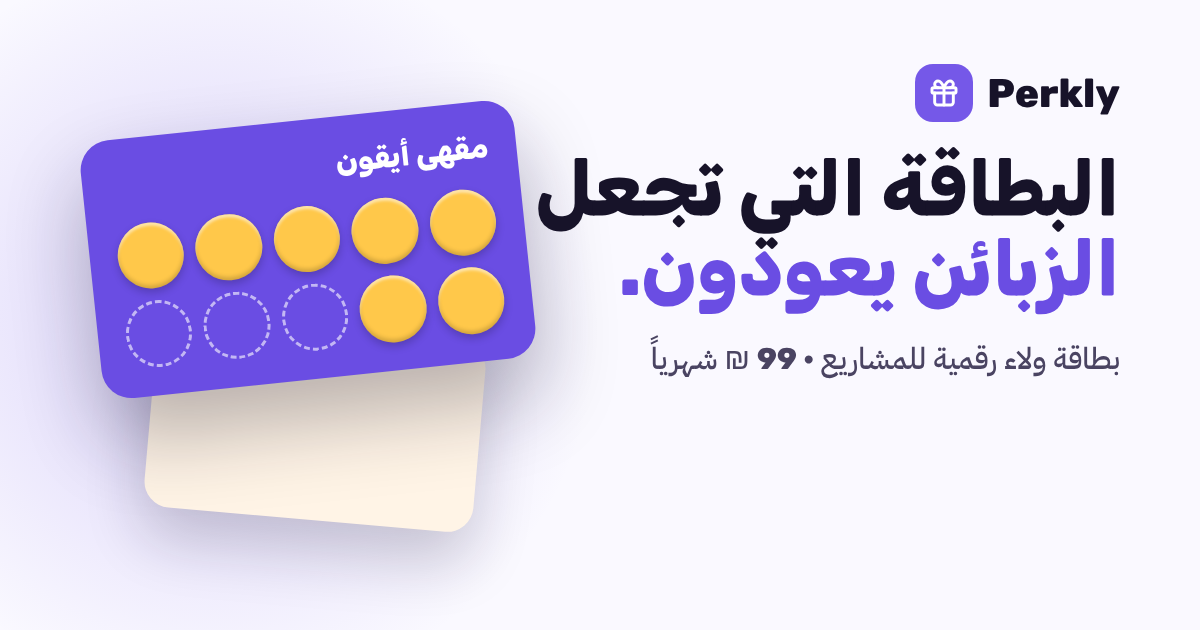
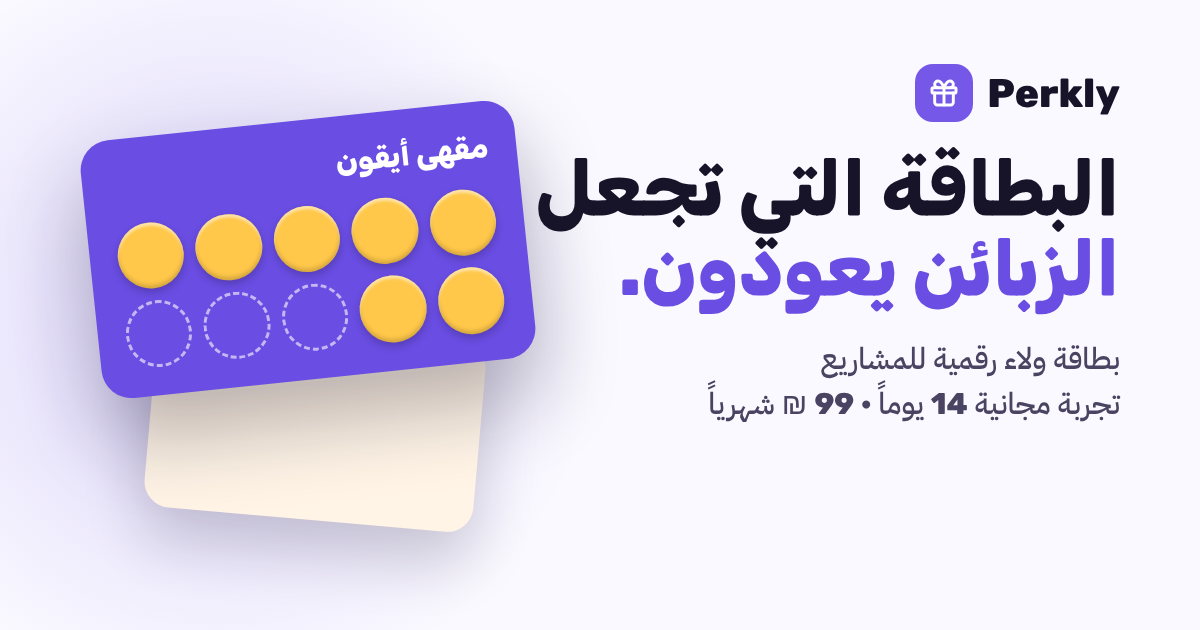
14-day free trial everywhere
- TRIAL_DAYS 3 -> 14: new subscriptions get a 14-day trial at the Polar
  checkout (first charge after 14 days).
- All texts in Hebrew, Arabic and English: landing (hero, pricing, FAQ,
  meta description), /start, /contact, billing page, error messages,
  admin hint, terms, README; share images re-rendered.
- Test: TRIAL_DAYS is 14 and no text still says 3 days.

Claude-Session: https://claude.ai/code/session_01M9Lt2PLQbQ6YVg2LydKd8k

Changed region(s): [[0.5858, 0.6032, 0.925, 0.6635], [0.5242, 0.5429, 0.6783, 0.6032]]

diff --git a/app/landing/content.ts b/app/landing/content.ts
@@ -3,7 +3,7 @@
 // - Only claims the product really supports today (see README "מה עובד בגרסה הזו").
 // - One stamp rule everywhere: the business sets how many stamps fill a card; a full card
 //   means the reward is ready; redeeming the reward is not itself counted as a stamp.
-// - Prices: 99 ILS a month, no setup fee. Counter kit: optional, 99 ILS one-time, also without a subscription.
+// - Prices: 99 ILS a month, no setup fee, 14-day free trial (TRIAL_DAYS in lib/server/billing.ts). Counter kit: optional, 99 ILS one-time, also without a subscription.
 // - No testimonials, customer counts or results until real, approved ones exist.
 
 export type Lang = "he" | "ar" | "en";
@@ -18,7 +18,7 @@ const he = {
   dir: "rtl" as "rtl" | "ltr",
   meta: {
     title: "Perkly — כרטיס נאמנות דיגיטלי לעסקים",
-    description: "כרטיס חותמות דיגיטלי בעיצוב העסק שלכם. הצטרפות ב־QR, ניהול חותמות והטבות ולוח בקרה לבעלי עסקים.",
+    description: "כרטיס חותמות דיגיטלי בעיצוב העסק שלכם. הצטרפות ב־QR, ניהול חותמות והטבות ולוח בקרה לבעלי עסקים. 14 ימי ניסיון חינם.",
     ogAlt: "Perkly: כרטיס נאמנות דיגיטלי בטלפון של הלקוח",
   },
   nav: { skip: "דלגו לתוכן", how: "איך זה עובד", examples: "דוגמאות", pricing: "מחיר", faq: "שאלות", login: "כניסה", cta: "התחילו עכשיו", menu: "תפריט", close: "סגירת התפריט", lang: "שפה", home: "Perkly, לדף הבית" },
@@ -29,7 +29,7 @@ const he = {
     cta: "התחילו עכשיו",
     demo: "נסו הדגמה",
     price: "99 ₪ לחודש",
-    priceNote: "בלי דמי הקמה",
+    priceNote: "14 ימי ניסיון חינם · בלי דמי הקמה",
     points: ["הלקוח לא מוריד אפליקציה", "מספיק טלפון או טאבלט בקופה", "עברית ואנגלית"],
     sceneLabel: "המחשה: כרטיס נאמנות של בית קפה בטלפון, ומאחוריו כרטיסים של מספרה ושל גלידרייה",
     myCard: "הכרטיס שלי",
@@ -137,7 +137,7 @@ const he = {
       name: "מנוי Perkly",
       price: "99 ₪",
       per: "לחודש",
-      note: "3 ימי ניסיון חינם · בלי דמי הקמה",
+      note: "14 ימי ניסיון חינם · בלי דמי הקמה",
       features: ["לקוחות ללא הגבלה", "עיצוב מלא: לוגו, תמונת רקע וחותמת משלכם", "באנר בעיצוב שלכם ב־Google Wallet", "עמדת עובד והזמנת עובדים", "לוח בקרה, היסטוריה והתראות", "עברית ואנגלית"],
       cta: "התחילו עכשיו",
     },
@@ -165,9 +165,9 @@ const he = {
       { q: "צריך לקנות ציוד?", a: "לא. עמדת העובד עובדת בדפדפן של טלפון או טאבלט עם מצלמה. את ה־QR אפשר להדפיס בעצמכם או להזמין ערכת קופה." },
       { q: "איך מונעים חותמות לא מוצדקות?", a: "לכל עובד כניסה אישית, וכל פעולה נרשמת עם שמו. המערכת מתריעה על פעילות חריגה, ובעל העסק יכול לבטל גישה של עובד מיד." },
       { q: "מה קורה כשהכרטיס מתמלא?", a: "ההטבה מוכנה. אתם בוחרים אם לממש אותה מיד, או לשמור אותה ולתת ללקוח להמשיך לצבור בכרטיס חדש. אפשר גם לקבוע תוקף להטבה." },
-      { q: "כמה זה עולה?", a: "99 ₪ לחודש, בלי דמי הקמה, עם 3 ימי ניסיון חינם. אפשר גם להתחיל בלי מנוי: עד 10 לקוחות, עם העיצובים, הצבעים והאייקונים המוכנים. לוגו, תמונת רקע וחותמת מתמונה משלכם נפתחים במנוי. ערכת קופה היא תוספת לבחירה ב־99 ₪ חד־פעמי." },
+      { q: "כמה זה עולה?", a: "99 ₪ לחודש, בלי דמי הקמה, עם 14 ימי ניסיון חינם. אפשר גם להתחיל בלי מנוי: עד 10 לקוחות, עם העיצובים, הצבעים והאייקונים המוכנים. לוגו, תמונת רקע וחותמת מתמונה משלכם נפתחים במנוי. ערכת קופה היא תוספת לבחירה ב־99 ₪ חד־פעמי." },
       { q: "יש חיבור ל־Apple Wallet ול־Google Wallet?", a: "Google Wallet כן: לקוחות עם אנדרואיד מוסיפים את הכרטיס לארנק, והוא מתעדכן לבד בכל חותמת. Apple Wallet בפיתוח. באייפון הכרטיס נפתח מהקישור האישי או מקיצור במסך הבית." },
-      { q: "איך מתחילים?", a: "פותחים חשבון, מעצבים את הכרטיס ומזינים פרטי אשראי. מקבלים QR להדפסה ומתחילים מיד. 3 הימים הראשונים חינם, ואז 99 ₪ לחודש. אפשר לבטל בכל עת." },
+      { q: "איך מתחילים?", a: "פותחים חשבון, מעצבים את הכרטיס ומזינים פרטי אשראי. מקבלים QR להדפסה ומתחילים מיד. 14 הימים הראשונים חינם, ואז 99 ₪ לחודש. אפשר לבטל בכל עת." },
     ],
   },
   final: {
@@ -196,7 +196,7 @@ const ar: Copy = {
   dir: "rtl",
   meta: {
     title: "Perkly — بطاقة ولاء رقمية للمشاريع",
-    description: "بطاقة أختام رقمية بتصميم مشروعك. انضمام عبر QR، إدارة الأختام والمكافآت، ولوحة تحكم لأصحاب المشاريع.",
+    description: "بطاقة أختام رقمية بتصميم مشروعك. انضمام عبر QR، إدارة الأختام والمكافآت، ولوحة تحكم لأصحاب المشاريع. تجربة مجانية لمدة 14 يوماً.",
     ogAlt: "Perkly: بطاقة ولاء رقمية في هاتف الزبون",
   },
   nav: { skip: "انتقل إلى المحتوى", how: "كيف يعمل", examples: "أمثلة", pricing: "السعر", faq: "أسئلة", login: "دخول", cta: "ابدأوا الآن", menu: "القائمة", close: "إغلاق القائمة", lang: "اللغة", home: "Perkly، الصفحة الرئيسية" },
@@ -207,7 +207,7 @@ const ar: Copy = {
     cta: "ابدأوا الآن",
     demo: "جرّبوا العرض",
     price: "99 ₪ شهرياً",
-    priceNote: "بدون رسوم تأسيس",
+    priceNote: "تجربة مجانية لمدة 14 يوماً · بدون رسوم تأسيس",
     points: ["الزبون لا يحتاج إلى تطبيق", "يكفي هاتف أو جهاز لوحي عند الصندوق", "العبرية والعربية والإنجليزية"],
     sceneLabel: "توضيح: بطاقة ولاء لمقهى في الهاتف، وخلفها بطاقتان لصالون حلاقة ولمحل بوظة",
     myCard: "بطاقتي",
@@ -315,7 +315,7 @@ const ar: Copy = {
       name: "اشتراك Perkly",
       price: "99 ₪",
       per: "شهرياً",
-      note: "3 أيام تجربة مجانية · بدون رسوم تأسيس",
+      note: "تجربة مجانية لمدة 14 يوماً · بدون رسوم تأسيس",
       features: ["زبائن بلا حدود", "تصميم كامل: الشعار وصورة خلفية وختم خاص بكم", "بانر بتصميمكم في Google Wallet", "واجهة موظف ودعوة موظفين", "لوحة تحكم، سجل وتنبيهات", "العبرية والعربية والإنجليزية"],
       cta: "ابدأوا الآن",
     },
@@ -343,7 +343,7 @@ const ar: Copy = {
       { q: "هل يجب شراء معدات؟", a: "لا. واجهة الموظف تعمل في متصفح هاتف أو جهاز لوحي فيه كاميرا. يمكن طباعة رمز QR بأنفسكم أو طلب طقم الصندوق." },
       { q: "كيف نمنع أختاماً غير مبررة؟", a: "لكل موظف دخول شخصي، وكل عملية تُسجّل باسمه. النظام ينبّه عند نشاط غير اعتيادي، وصاحب المشروع يستطيع إلغاء صلاحية موظف فوراً." },
       { q: "ماذا يحدث عندما تمتلئ البطاقة؟", a: "تكون المكافأة جاهزة. تختارون استبدالها فوراً، أو حفظها والسماح للزبون بالاستمرار في الجمع على بطاقة جديدة. يمكن أيضاً تحديد صلاحية للمكافأة." },
-      { q: "كم يكلّف؟", a: "99 ₪ شهرياً، بدون رسوم تأسيس، مع 3 أيام تجربة مجانية. يمكن أيضاً البدء بدون اشتراك: حتى 10 زبائن، مع التصاميم والألوان والأيقونات الجاهزة. الشعار وصورة الخلفية والختم من صورتكم تُفتح بالاشتراك. طقم الصندوق إضافة اختيارية بسعر 99 ₪ لمرة واحدة." },
+      { q: "كم يكلّف؟", a: "99 ₪ شهرياً، بدون رسوم تأسيس، مع تجربة مجانية لمدة 14 يوماً. يمكن أيضاً البدء بدون اشتراك: حتى 10 زبائن، مع التصاميم والألوان والأيقونات الجاهزة. الشعار وصورة الخلفية والختم من صورتكم تُفتح بالاشتراك. طقم الصندوق إضافة اختيارية بسعر 99 ₪ لمرة واحدة." },
       { q: "هل يوجد ربط مع Apple Wallet وGoogle Wallet؟", a: "Google Wallet نعم: زبائن أندرويد يضيفون البطاقة إلى المحفظة وتتحدث تلقائياً مع كل ختم. Apple Wallet قيد التطوير، وفي الآيفون تُفتح البطاقة من الرابط الشخصي أو من اختصار في الشاشة الرئيسية." },
       { q: "كيف نبدأ؟", a: "تفتحون حساباً، تصممون البطاقة وتدخلون تفاصيل البطاقة الائتمانية. تحصلون على رمز QR للطباعة وتبدؤون فوراً. الأيام الثلاثة الأولى مجانية، ثم 99 ₪ شهرياً. يمكن الإلغاء في أي وقت." },
     ],
@@ -372,7 +372,7 @@ const en: Copy = {
   dir: "ltr",
   meta: {
     title: "Perkly — Digital loyalty cards for small businesses",
-    description: "A digital stamp card in your business's own design. QR sign-up, stamps and rewards, and a dashboard for owners.",
+    description: "A digital stamp card in your business's own design. QR sign-up, stamps and rewards, and a dashboard for owners. 14-day free trial.",
     ogAlt: "Perkly: a digital loyalty card on a customer's phone",
   },
   nav: { skip: "Skip to content", how: "How it works", examples: "Examples", pricing: "Pricing", faq: "FAQ", login: "Sign in", cta: "Get started", menu: "Menu", close: "Close menu", lang: "Language", home: "Perkly, home page" },
@@ -383,7 +383,7 @@ const en: Copy = {
     cta: "Get started",
     demo: "Try the demo",
     price: "₪99 a month",
-    priceNote: "No setup fee",
+    priceNote: "14-day free trial · no setup fee",
     points: ["No app for customers to download", "Any phone or tablet at the counter", "Hebrew and English"],
     sceneLabel: "Illustration: a café loyalty card on a phone, with a barbershop card and an ice cream shop card behind it",
     myCard: "My card",
@@ -491,7 +491,7 @@ const en: Copy = {
       name: "Perkly subscription",
       price: "₪99",
       per: "a month",
-      note: "3-day free trial · no setup fee",
+      note: "14-day free trial · no setup fee",
       features: ["Unlimited customers", "Full design: your logo, background image and stamp", "Your own banner in Google Wallet", "Staff station and staff invites", "Dashboard, history and alerts", "Hebrew and English"],
       cta: "Get started",
     },
@@ -519,9 +519,9 @@ const en: Copy = {
       { q: "Do I need to buy equipment?", a: "No. The staff station runs in the browser of any phone or tablet with a camera. You can print the QR code yourself or order a counter kit." },
       { q: "How do you prevent unearned stamps?", a: "Each staff member has a personal login, and every action is logged with their name. The system flags unusual activity, and the owner can remove a staff member's access immediately." },
       { q: "What happens when the card is full?", a: "The reward is ready. You choose whether it's redeemed right away, or saved while the customer keeps collecting on a new card. You can also set an expiry for rewards." },
-      { q: "How much does it cost?", a: "₪99 a month, no setup fee, with a 3-day free trial. You can also start without a subscription: up to 10 customers, with the ready designs, colors and icons. Your logo, a background image and a stamp from your own image come with a subscription. The counter kit is an optional one-time add-on for ₪99." },
+      { q: "How much does it cost?", a: "₪99 a month, no setup fee, with a 14-day free trial. You can also start without a subscription: up to 10 customers, with the ready designs, colors and icons. Your logo, a background image and a stamp from your own image come with a subscription. The counter kit is an optional one-time add-on for ₪99." },
       { q: "Does it work with Apple Wallet and Google Wallet?", a: "Google Wallet, yes: Android customers add the card to their wallet and it updates by itself with every stamp. Apple Wallet is in development; on iPhone the card opens from its personal link or a home screen shortcut." },
-      { q: "How do I get started?", a: "Open an account, design your card and add a payment card. You get a QR code to print and start right away. The first 3 days are free, then ₪99 a month. Cancel anytime." },
+      { q: "How do I get started?", a: "Open an account, design your card and add a payment card. You get a QR code to print and start right away. The first 14 days are free, then ₪99 a month. Cancel anytime." },
     ],
   },
   final: {

diff --git a/app/start/start-flow.tsx b/app/start/start-flow.tsx
@@ -39,13 +39,13 @@ const T = {
     designTitle: "מעצבים את הכרטיס", designIntro: "צבעים, רקע, חותמת, גופן וטקסטים. כל שינוי מופיע מיד בתצוגה.",
     designPaid: "לוגו, תמונת רקע מעוצבת וחותמת מתמונה משלכם נפתחים עם המנוי, כבר בימי הניסיון.", designSave: "שמירה והמשך", designSkip: "להמשיך בלי שינויים",
     payTitle: "מפעילים את המנוי", payIntro: "הכרטיס שלכם מוכן. מזינים פרטי אשראי, מקבלים את ה־QR ומתחילים מיד.",
-    plan: "מנוי Perkly", price: "99 ₪", per: "לחודש", noSetup: "3 ימי ניסיון חינם. החיוב הראשון רק אחרי 3 ימים, ואם מבטלים לפני כן לא משלמים כלום. בלי דמי הקמה.",
+    plan: "מנוי Perkly", price: "99 ₪", per: "לחודש", noSetup: "14 ימי ניסיון חינם. החיוב הראשון רק אחרי 14 ימים, ואם מבטלים לפני כן לא משלמים כלום. בלי דמי הקמה.",
     features: ["לקוחות ללא הגבלה", "לוגו ותמונת רקע מעוצבת", "חותמת מתמונה משלכם", "באנר בעיצוב שלכם ב־Google Wallet", "עמדת עובד והזמנת עובדים", "לוח בקרה והתראות"],
     planMore: "במנוי מקבלים הרבה יותר:", freeCompare: "בלי מנוי: עד 10 לקוחות ועיצוב מהתבניות, הצבעים והאייקונים המוכנים.",
-    englishNote: { title: "דף התשלום של Polar באנגלית. מה כתוב שם:", rows: [["3 days free", "3 ימים חינם"], ["Due today ₪0", "היום משלמים 0 ₪"], ["Then ₪99/month", "אחר כך 99 ₪ לחודש"], ["Start trial", "התחלת הניסיון (הכפתור בסוף)"]] },
-    pay: "התחלת 3 ימי ניסיון", paying: "פותחים את דף התשלום…", secure: "התשלום מתבצע אצל Polar, ספק תשלומים מאובטח. פרטי האשראי לא מגיעים אלינו.",
+    englishNote: { title: "דף התשלום של Polar באנגלית. מה כתוב שם:", rows: [["14 days free", "14 ימים חינם"], ["Due today ₪0", "היום משלמים 0 ₪"], ["Then ₪99/month", "אחר כך 99 ₪ לחודש"], ["Start trial", "התחלת הניסיון (הכפתור בסוף)"]] },
+    pay: "התחלת 14 ימי ניסיון", paying: "פותחים את דף התשלום…", secure: "התשלום מתבצע אצל Polar, ספק תשלומים מאובטח. פרטי האשראי לא מגיעים אלינו.",
     later: "להתחיל בלי מנוי (עד 10 לקוחות)",
-    freeNote: "בלי מנוי אפשר לצרף עד 10 לקוחות. כדי להמשיך מעבר לזה, מפעילים מנוי עם 3 ימי ניסיון חינם.", activate: "הפעלת מנוי", billingOff: "התשלום באתר עדיין לא מופעל. כתבו לנו ל־support@perkly.shop ונפעיל לכם את החשבון.",
+    freeNote: "בלי מנוי אפשר לצרף עד 10 לקוחות. כדי להמשיך מעבר לזה, מפעילים מנוי עם 14 ימי ניסיון חינם.", activate: "הפעלת מנוי", billingOff: "התשלום באתר עדיין לא מופעל. כתבו לנו ל־support@perkly.shop ונפעיל לכם את החשבון.",
     payFail: "לא הצלחנו לפתוח את דף התשלום. נסו שוב.",
     waitTitle: "מאשרים את הפרטים…", waitText: "זה לוקח בדרך כלל כמה שניות.",
     waitSlow: "הפרטים התקבלו, והאישור מתעכב. רעננו את הדף בעוד דקה. אם זה נמשך, כתבו ל־support@perkly.shop.",
@@ -68,13 +68,13 @@ const T = {
     designTitle: "تصميم البطاقة", designIntro: "الألوان، الخلفية، الختم، الخط والنصوص. كل تغيير يظهر فوراً في المعاينة.",
     designPaid: "الشعار وصورة الخلفية المصممة والختم من صورتكم تُفتح مع الاشتراك، حتى خلال أيام التجربة.", designSave: "حفظ ومتابعة", designSkip: "المتابعة بدون تغيير",
     payTitle: "تفعيل الاشتراك", payIntro: "بطاقتكم جاهزة. أدخلوا تفاصيل البطاقة الائتمانية، احصلوا على رمز QR وابدؤوا فوراً.",
-    plan: "اشتراك Perkly", price: "99 ₪", per: "شهرياً", noSetup: "3 أيام تجربة مجانية. أول دفعة بعد 3 أيام فقط، وإن ألغيتم قبل ذلك لا تدفعون شيئاً. بدون رسوم تأسيس.",
+    plan: "اشتراك Perkly", price: "99 ₪", per: "شهرياً", noSetup: "تجربة مجانية لمدة 14 يوماً. أول دفعة بعد 14 يوماً فقط، وإن ألغيتم قبل ذلك لا تدفعون شيئاً. بدون رسوم تأسيس.",
     features: ["زبائن بلا حدود", "الشعار وصورة خلفية مصممة", "ختم من صورتكم الخاصة", "بانر بتصميمكم في Google Wallet", "محطة موظف ودعوة موظفين", "لوحة تحكم وتنبيهات"],
     planMore: "مع الاشتراك تحصلون على الكثير:", freeCompare: "بدون اشتراك: حتى 10 زبائن وتصميم من القوالب والألوان والأيقونات الجاهزة.",
-    englishNote: { title: "صفحة الدفع في Polar بالإنجليزية. ماذا يعني المكتوب:", rows: [["3 days free", "3 أيام مجاناً"], ["Due today ₪0", "تدفعون اليوم 0 ₪"], ["Then ₪99/month", "بعدها 99 ₪ شهرياً"], ["Start trial", "بدء التجربة (الزر في الأسفل)"]] },
-    pay: "ابدأوا 3 أيام تجربة", paying: "نفتح صفحة الدفع…", secure: "الدفع يتم عبر Polar، مزود دفع آمن. تفاصيل البطاقة لا تصل إلينا.",
+    englishNote: { title: "صفحة الدفع في Polar بالإنجليزية. ماذا يعني المكتوب:", rows: [["14 days free", "14 يوماً مجاناً"], ["Due today ₪0", "تدفعون اليوم 0 ₪"], ["Then ₪99/month", "بعدها 99 ₪ شهرياً"], ["Start trial", "بدء التجربة (الزر في الأسفل)"]] },
+    pay: "ابدأوا تجربة 14 يوماً", paying: "نفتح صفحة الدفع…", secure: "الدفع يتم عبر Polar، مزود دفع آمن. تفاصيل البطاقة لا تصل إلينا.",
     later: "البدء بدون اشتراك (حتى 10 زبائن)",
-    freeNote: "بدون اشتراك يمكن إضافة حتى 10 زبائن. للمتابعة بعد ذلك فعّلوا الاشتراك مع 3 أيام تجربة مجانية.", activate: "تفعيل الاشتراك", billingOff: "الدفع في الموقع غير مفعّل بعد. راسلونا على support@perkly.shop وسنفعّل حسابكم.",
+    freeNote: "بدون اشتراك يمكن إضافة حتى 10 زبائن. للمتابعة بعد ذلك فعّلوا الاشتراك مع تجربة مجانية لمدة 14 يوماً.", activate: "تفعيل الاشتراك", billingOff: "الدفع في الموقع غير مفعّل بعد. راسلونا على support@perkly.shop وسنفعّل حسابكم.",
     payFail: "لم نتمكن من فتح صفحة الدفع. حاولوا مجدداً.",
     waitTitle: "نؤكد الدفع…", waitText: "يستغرق ذلك عادة بضع ثوانٍ.",
     waitSlow: "تم استلام الدفع والتأكيد يتأخر. حدّثوا الصفحة بعد دقيقة. إن استمر ذلك راسلونا على support@perkly.shop.",
@@ -97,13 +97,13 @@ const T = {
     designTitle: "Design your card", designIntro: "Colors, background, stamp, font and texts. Every change shows right away in the preview.",
     designPaid: "Your logo, a designed background image and a stamp from your own image unlock with a subscription, already during the trial.", designSave: "Save and continue", designSkip: "Continue without changes",
     payTitle: "Activate your subscription", payIntro: "Your card is ready. Add your payment card, get your QR code and start right away.",
-    plan: "Perkly subscription", price: "₪99", per: "a month", noSetup: "3-day free trial. You're first charged after 3 days, and if you cancel before then you pay nothing. No setup fee.",
+    plan: "Perkly subscription", price: "₪99", per: "a month", noSetup: "14-day free trial. You're first charged after 14 days, and if you cancel before then you pay nothing. No setup fee.",
     features: ["Unlimited customers", "Your logo and a designed background image", "A stamp from your own image", "Your own banner in Google Wallet", "Staff station and team invites", "Dashboard and alerts"],
     planMore: "A subscription gives you much more:", freeCompare: "Without a subscription: up to 10 customers, with the ready designs, colors and icons.",
     englishNote: null,
-    pay: "Start the 3-day trial", paying: "Opening the payment page…", secure: "Payment is handled by Polar, a secure payment provider. Your card details never reach us.",
+    pay: "Start the 14-day trial", paying: "Opening the payment page…", secure: "Payment is handled by Polar, a secure payment provider. Your card details never reach us.",
     later: "Start without a subscription (up to 10 customers)",
-    freeNote: "Without a subscription you can add up to 10 customers. To go beyond that, activate a subscription with a 3-day free trial.", activate: "Activate subscription", billingOff: "Online payment isn't switched on yet. Email support@perkly.shop and we'll activate your account.",
+    freeNote: "Without a subscription you can add up to 10 customers. To go beyond that, activate a subscription with a 14-day free trial.", activate: "Activate subscription", billingOff: "Online payment isn't switched on yet. Email support@perkly.shop and we'll activate your account.",
     payFail: "We couldn't open the payment page. Please try again.",
     waitTitle: "Confirming your payment…", waitText: "This usually takes a few seconds.",
     waitSlow: "Your payment went through and the confirmation is running late. Refresh in a minute. If it continues, email support@perkly.shop.",

diff --git a/lib/i18n.ts b/lib/i18n.ts
@@ -64,7 +64,7 @@ const words: Record<string, Entry> = {
   err_weak_password: ["הסיסמה צריכה לפחות 8 תווים.", "كلمة المرور تحتاج 8 أحرف على الأقل.", "The password needs at least 8 characters."],
   err_signup_code: ["קוד ההרשמה חסר או שגוי.", "رمز التسجيل مفقود أو غير صحيح.", "The signup code is missing or wrong."],
   err_rate_limited: ["יותר מדי ניסיונות. נסו שוב בעוד כמה דקות.", "محاولات كثيرة. حاول بعد بضع دقائق.", "Too many attempts. Try again in a few minutes."],
-  err_free_limit: ["הגעתם ל־10 לקוחות, המקסימום בלי מנוי. כדי לצרף עוד לקוחות, הפעילו מנוי (3 ימי ניסיון חינם).", "وصلتم إلى 10 زبائن، الحد الأقصى بدون اشتراك. لإضافة المزيد فعّلوا الاشتراك (3 أيام تجربة مجانية).", "You've reached 10 customers, the most without a subscription. To add more, activate a subscription (3-day free trial)."],
+  err_free_limit: ["הגעתם ל־10 לקוחות, המקסימום בלי מנוי. כדי לצרף עוד לקוחות, הפעילו מנוי (14 ימי ניסיון חינם).", "وصلتم إلى 10 زبائن، الحد الأقصى بدون اشتراك. لإضافة المزيد فعّلوا الاشتراك (تجربة مجانية لمدة 14 يوماً).", "You've reached 10 customers, the most without a subscription. To add more, activate a subscription (14-day free trial)."],
   freeBanner: ["חשבון ללא מנוי: {used} מתוך {limit} לקוחות. במנוי: לקוחות ללא הגבלה, לוגו, תמונת רקע וחותמת משלכם.", "حساب بدون اشتراك: {used} من {limit} زبائن. مع الاشتراك: زبائن بلا حدود، الشعار، صورة خلفية وختم خاص بكم.", "No subscription yet: {used} of {limit} customers. With a subscription: unlimited customers, your logo, a background image and your own stamp."],
   err_subscription_required: ["המנוי של העסק לא פעיל כרגע. לא ניתן להוסיף חותמות או לקוחות חדשים.", "اشتراك المشروع غير فعال حالياً. لا يمكن إضافة أختام أو زبائن جدد.", "This business's subscription isn't active. Stamps and new customers are paused."],
   err_maintenance: ["המערכת בתחזוקה כרגע. נסו שוב מאוחר יותר.", "النظام قيد الصيانة حالياً. حاول لاحقاً.", "The system is under maintenance. Please try again later."],
@@ -132,7 +132,7 @@ const words: Record<string, Entry> = {
   paidTag: ["במנוי", "بالاشتراك", "Subscription"],
   paidImagesNote: ["לוגו ותמונת רקע מעוצבת (שמופיעה גם כבאנר ב־Google Wallet) זמינים במנוי.", "الشعار وصورة الخلفية المصممة (تظهر أيضاً كبانر في Google Wallet) متاحة بالاشتراك.", "Your logo and a designed background image (also shown as the Google Wallet banner) come with a subscription."],
   paidStampHint: ["חותמת מתמונה משלכם (למשל הכוס שלכם) זמינה במנוי.", "ختم من صورتكم الخاصة (مثل كوبكم) متاح بالاشتراك.", "A stamp from your own image (like your cup) comes with a subscription."],
-  err_paid_feature: ["האפשרות הזו זמינה במנוי. הפעילו מנוי (3 ימי ניסיון חינם) כדי להעלות לוגו ותמונות.", "هذا الخيار متاح بالاشتراك. فعّلوا الاشتراك (3 أيام تجربة مجانية) لرفع الشعار والصور.", "This option comes with a subscription. Activate one (3-day free trial) to upload your logo and images."],
+  err_paid_feature: ["האפשרות הזו זמינה במנוי. הפעילו מנוי (14 ימי ניסיון חינם) כדי להעלות לוגו ותמונות.", "هذا الخيار متاح بالاشتراك. فعّلوا الاشتراك (تجربة مجانية لمدة 14 يوماً) لرفع الشعار والصور.", "This option comes with a subscription. Activate one (14-day free trial) to upload your logo and images."],
   activateSub: ["הפעלת מנוי · 99 ₪ לחודש", "تفعيل الاشتراك · 99 ₪ شهرياً", "Activate subscription · ₪99/month"],
   walletOwnerNote: ["לקוחות עם אנדרואיד יכולים להוסיף את הכרטיס ל־Google Wallet, והוא מתעדכן לבד. Apple Wallet עדיין לא זמין.", "يمكن لزبائن أندرويد إضافة البطاقة إلى Google Wallet وهي تتحدث تلقائياً. Apple Wallet غير متاح بعد.", "Android customers can add the card to Google Wallet, and it updates by itself. Apple Wallet isn't available yet."],
   walletHintIOS: ["הוספה ל־Apple Wallet עדיין לא זמינה.", "الإضافة إلى Apple Wallet غير متاحة بعد.", "Adding to Apple Wallet isn't available yet."],

diff --git a/app/contact/contact-form.tsx b/app/contact/contact-form.tsx
@@ -33,8 +33,8 @@ const T = {
     askWaText: "היי, יש לי שאלה על Perkly",
     home: "חזרה לדף הבית",
     nextTitle: "או שמתחילים לבד",
-    next: ["פותחים חשבון ומעצבים את הכרטיס", "משלמים 99 ₪ לחודש, בלי התחייבות", "מציבים QR בקופה ומתחילים להחתים"],
-    price: "99 ₪ לחודש", priceNote: "בלי דמי הקמה",
+    next: ["פותחים חשבון ומעצבים את הכרטיס", "14 ימי ניסיון חינם, ואחר כך 99 ₪ לחודש, בלי התחייבות", "מציבים QR בקופה ומתחילים להחתים"],
+    price: "99 ₪ לחודש", priceNote: "14 ימי ניסיון חינם · בלי דמי הקמה",
     support: "שאלות? וואטסאפ",
     login: "כבר יש לי חשבון",
     start: "פתיחת חשבון עכשיו",
@@ -62,8 +62,8 @@ const T = {
     askWaText: "مرحباً، لدي سؤال عن Perkly",
     home: "العودة للصفحة الرئيسية",
     nextTitle: "أو ابدأوا بأنفسكم",
-    next: ["تفتحون حساباً وتصممون البطاقة", "تدفعون 99 ₪ شهرياً بدون التزام", "تضعون رمز QR عند الصندوق وتبدؤون بالأختام"],
-    price: "99 ₪ شهرياً", priceNote: "بدون رسوم تأسيس",
+    next: ["تفتحون حساباً وتصممون البطاقة", "تجربة مجانية لمدة 14 يوماً، ثم 99 ₪ شهرياً بدون التزام", "تضعون رمز QR عند الصندوق وتبدؤون بالأختام"],
+    price: "99 ₪ شهرياً", priceNote: "تجربة مجانية لمدة 14 يوماً · بدون رسوم تأسيس",
     support: "أسئلة؟ واتساب",
     login: "لدي حساب",
     start: "فتح حساب الآن",
@@ -91,8 +91,8 @@ const T = {
     askWaText: "Hi, I have a question about Perkly",
     home: "Back to home",
     nextTitle: "Or start on your own",
-    next: ["Open an account and design your card", "Pay ₪99 a month, no commitment", "Put up the QR code and start stamping"],
-    price: "₪99 a month", priceNote: "No setup fee",
+    next: ["Open an account and design your card", "14-day free trial, then ₪99 a month, no commitment", "Put up the QR code and start stamping"],
+    price: "₪99 a month", priceNote: "14-day free trial · no setup fee",
     support: "Questions? WhatsApp",
     login: "I have an account",
     start: "Create an account now",

diff --git a/app/terms/page.tsx b/app/terms/page.tsx
@@ -43,7 +43,7 @@ export default function TermsPage() {
         <li>מנוי: 99 ₪ לחודש, בלי דמי הקמה.</li>
         <li>ערכת קופה (2 פוסטרים וסטנד QR): 99 ₪ חד־פעמי, לבחירה, גם בלי מנוי.</li>
         <li>בלי מנוי אפשר להשתמש בשירות עבור עד 10 לקוחות, עם העיצובים, הצבעים והאייקונים המוכנים. כדי לצרף לקוחות נוספים, ולהעלות לוגו, תמונת רקע או חותמת מתמונה, נדרש מנוי.</li>
-        <li>למנוי חדש יש 3 ימי ניסיון חינם. פרטי האשראי נמסרים בתחילת הניסיון, והחיוב הראשון מתבצע בתום 3 הימים. ביטול לפני תום הניסיון אינו כרוך בחיוב.</li>
+        <li>למנוי חדש יש 14 ימי ניסיון חינם. פרטי האשראי נמסרים בתחילת הניסיון, והחיוב הראשון מתבצע בתום 14 הימים. ביטול לפני תום הניסיון אינו כרוך בחיוב.</li>
         <li>התשלום על המנוי מתבצע אצל Polar, שהיא המוכרת הרשמית (Merchant of Record), ומתחדש כל חודש עד לביטול.</li>
         <li>אפשר לבטל בכל עת. הביטול נכנס לתוקף בסוף תקופת החיוב הנוכחית.</li>
         <li>אם המנוי לא פעיל, אפשר עדיין לצפות בנתונים ולממש הטבות שנצברו, אבל אי אפשר להוסיף חותמות או לקוחות חדשים.</li>

diff --git a/app/admin/settings/settings-form.tsx b/app/admin/settings/settings-form.tsx
@@ -40,7 +40,7 @@ export function SettingsForm({ initial }: { initial: Settings }) {
         <h3>מנוי ותקופת ניסיון</h3>
         <label className="check">
           <input type="checkbox" checked={s.requireSubscription} onChange={(e) => set("requireSubscription", e.target.checked)} />
-          <span>עסק חדש צריך מנוי<br /><small className="form-hint">חל על עסקים שייפתחו מעכשיו. בלי מנוי עסק יכול לצרף עד 10 לקוחות. 3 ימי הניסיון עם אשראי מגיעים מ־Polar. כשכבוי: עסק חדש עובד ללא הגבלה.</small></span>
+          <span>עסק חדש צריך מנוי<br /><small className="form-hint">חל על עסקים שייפתחו מעכשיו. בלי מנוי עסק יכול לצרף עד 10 לקוחות. 14 ימי הניסיון עם אשראי מגיעים מ־Polar. כשכבוי: עסק חדש עובד ללא הגבלה.</small></span>
         </label>
         <label>ימי ניסיון
           <input type="number" min={0} max={365} value={s.trialDays} disabled={!s.requireSubscription}

diff --git a/app/start/page.tsx b/app/start/page.tsx
@@ -12,7 +12,7 @@ export const dynamic = "force-dynamic";
 export const metadata: Metadata = {
   title: "Perkly | פתיחת חשבון",
   description:
-    "פותחים חשבון, מעצבים כרטיס נאמנות ומתחילים לעבוד. 99 ₪ לחודש, בלי התחייבות.",
+    "פותחים חשבון, מעצבים כרטיס נאמנות ומתחילים לעבוד. 14 ימי ניסיון חינם, ואחר כך 99 ₪ לחודש, בלי התחייבות.",
   alternates: { canonical: "/start" },
 };
 

diff --git a/app/billing/billing-view.tsx b/app/billing/billing-view.tsx
@@ -14,7 +14,7 @@ const STATUS_LABEL: Record<string, string> = {
   incomplete: "לא הושלם",
 };
 
-const PRICE_TEXT = "99 ₪ לחודש, בלי דמי הקמה";
+const PRICE_TEXT = "99 ₪ לחודש, בלי דמי הקמה. למנוי חדש 14 ימי ניסיון חינם.";
 
 export default function BillingView({ businesses, configured }: { businesses: BillingBusiness[]; configured: boolean }) {
   const [busy, setBusy] = useState<string | null>(null);

diff --git a/lib/server/billing.ts b/lib/server/billing.ts
@@ -8,7 +8,7 @@ export function isEntitled(status: string | null | undefined): boolean {
 
 export const MONTHLY_PRICE_ILS = 99;
 /** Free trial at checkout: the card is taken up front and first charged when the trial ends. */
-export const TRIAL_DAYS = 3;
+export const TRIAL_DAYS = 14;
 
 /** Customers a business may have before it subscribes (QR and stamps work up to this number). */
 export const FREE_CUSTOMERS = 10;

diff --git a/README.md b/README.md
@@ -31,7 +31,7 @@
 | Apple Wallet | **עוד לא** (דורש Apple Developer) |
 | איפוס סיסמה: קישור חד-פעמי שהמנהל יוצר | פעיל |
 | איפוס סיסמה במייל אוטומטי, אימות טלפון ב־SMS | **עוד לא** |
-| מנויים וחיוב דרך Polar (99 ₪ לחודש), תקופת ניסיון אופציונלית | פעיל |
+| מנויים וחיוב דרך Polar (99 ₪ לחודש), 14 ימי ניסיון חינם למנוי חדש (`TRIAL_DAYS`) | פעיל |
 | דף בית לעסקים, תנאי שימוש ומדיניות פרטיות (טיוטה) | פעיל |
 | ימי הולדת (יום וחודש, אפשר לכבות לכל עסק), עיצוב כרטיס מתקדם (גרדיינט, תמונה, גופן, גדלים) | פעיל |
 
